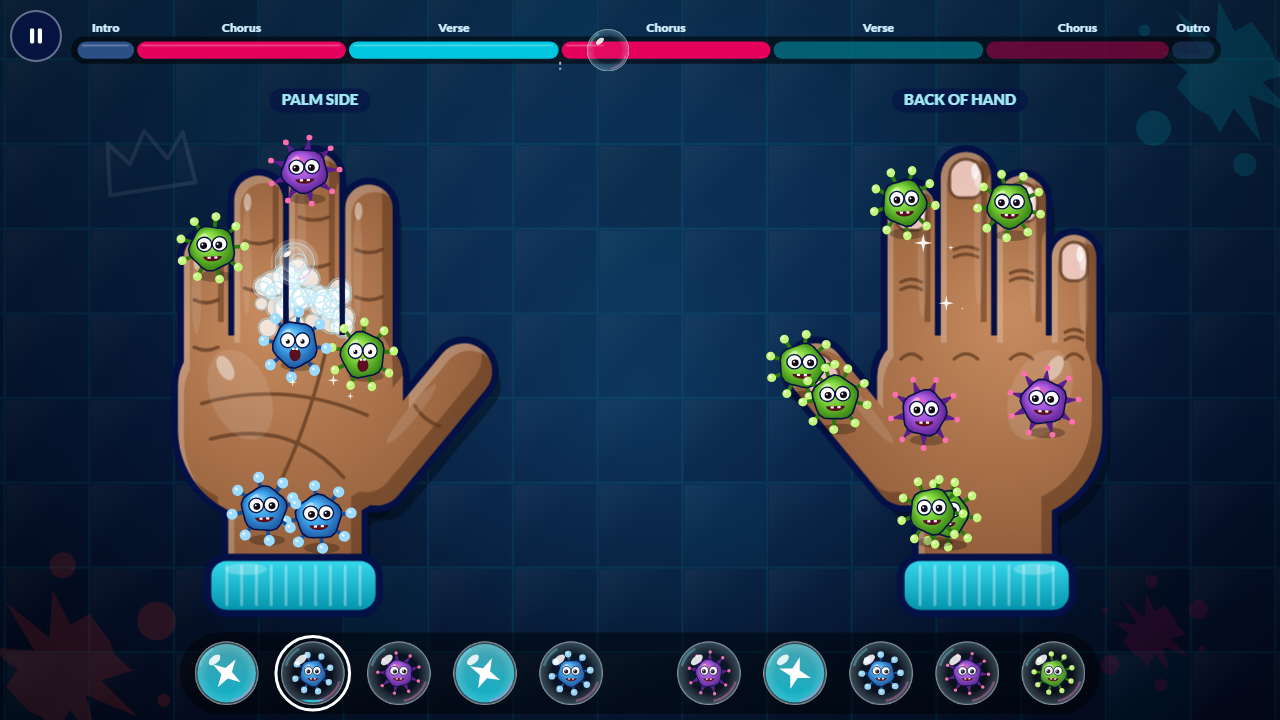
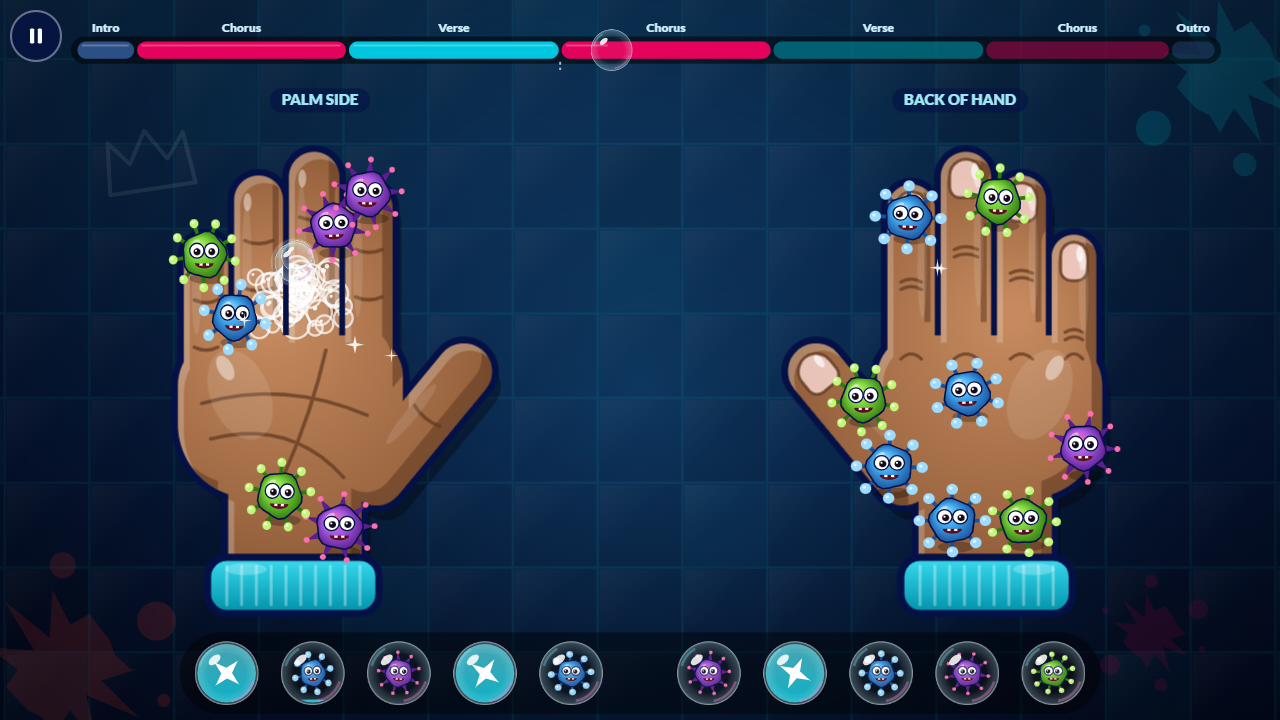
Scrub Squad: see-through suds that fade (hands keep their colour); wrist germs always scrub off
Suds were near-opaque white and never faded, so scrubbed hands looked lighter. Now clear rings that fade in 4 s.
The wrist zone was a sliver under the palm, so wrist germs barely scrubbed; it is bigger, germs are always placed
inside their own zone, and rubbing on a germ always scrubs that germ's zone.

diff --git a/scrub-squad/scrub-squad.js b/scrub-squad/scrub-squad.js
@@ -54,6 +54,7 @@ const GERMS = [
   { name: 'Boo', body: '#3FA6EC', dark: '#1A4F9C', tip: '#9EDCFF', spk: 'nub' },
   { name: 'Prickles', body: '#A85BE2', dark: '#5A1E8E', tip: '#FF6FB0', spk: 'cone' },
 ];
+const FOAM_LIFE = 4; // seconds a soap bubble stays on the hand
 const PRAISE = ['Squeaky!', 'Bye-bye, germs!', 'Sparkly!', 'Scrub-a-dub!', 'Shiny clean!', 'Germ-free zone!'];
 // Fallback timing if song.json has no markers (fractions of the song are scaled to its length)
 const DEFAULT_SECTIONS = [['Intro', 'intro', 0], ['Chorus', 'chorus', 0.052], ['Verse', 'verse', 0.238], ['Chorus', 'chorus', 0.425],
@@ -93,10 +94,10 @@ const thumbTip = () => [THUMB.bx + Math.cos(THUMB.ang) * (THUMB.len - THUMB.w / 
 
 // Drawing shapes
 const SH = { palm: new Path2D(), fingers: FING.map(() => new Path2D()), thumb: new Path2D(), wrist: new Path2D() };
-rrect(SH.palm, 24, 142, 152, 124, [34, 28, 52, 60]);
+rrect(SH.palm, 24, 142, 152, 110, [34, 28, 44, 50]);
 FING.forEach((f, i) => capsule(SH.fingers[i], f.x + f.w / 2, FBASE, -Math.PI / 2, f.w, FBASE - f.t));
 capsule(SH.thumb, THUMB.bx, THUMB.by, THUMB.ang, THUMB.w, THUMB.len);
-rrect(SH.wrist, 58, 246, 90, 66, [0, 0, 12, 12]);
+rrect(SH.wrist, 58, 232, 90, 80, [0, 0, 12, 12]);
 const ALL_SH = [SH.wrist, SH.palm, SH.thumb, ...SH.fingers];
 const UNION = new Path2D();
 ALL_SH.forEach((p) => UNION.addPath(p));
@@ -824,13 +825,13 @@ class ScrubSquad extends HTMLElement {
     for (let n = 0; n < 500; n++) {
       const z = pick(g.subs);
       const x = rnd(0, HW); const y = rnd(0, HH);
-      if (y > 272) continue; // not under the cuff
+      if (y > 280) continue; // not under the cuff
       if (hitZone(x, y) !== z || !inHand(x + 8, y) || !inHand(x - 8, y) || !inHand(x, y + 8) || !inHand(x, y - 8)) continue;
       let ok = true;
       for (const o of S.germs) if (o.h === g.h && o.st !== 'pop' && Math.hypot(o.x - x, o.y - y) < 30) ok = false;
       if (ok || n > 380) return [x, y];
     }
-    return [110, 200];
+    return this.localCenter(g.subs);
   }
   spawn(gi, sneaky) {
     const S = this.S; const g = S.groups[gi];
@@ -921,9 +922,9 @@ class ScrubSquad extends HTMLElement {
         const [sx, sy] = kb ? this.zoneCenter(S.kz) : [p.x, p.y];
         const [lx, ly] = this.toLocal(g.h, sx + (kb ? rnd(-30, 30) : 0), sy + (kb ? rnd(-30, 30) : 0));
         const fo = S.foam[g.h];
-        if (fo.length < 320 || Math.random() < 0.3) {
-          fo.push({ x: lx + rnd(-7, 7), y: ly + rnd(-7, 7), r: rnd(4, 10) * (this.prefs.mode === 'lit' ? 1.2 : 1), b: S.t });
-          if (fo.length > 320) fo.shift();
+        if (Math.random() < 0.6) {
+          fo.push({ x: lx + rnd(-8, 8), y: ly + rnd(-8, 8), r: rnd(4, 10) * (this.prefs.mode === 'lit' ? 1.2 : 1), b: S.t });
+          while (fo.length > 140 || (fo.length && S.t - fo[0].b > FOAM_LIFE)) fo.shift();
         }
         if (Math.random() < (this.chorus ? 0.5 : 0.22)) this.bubble(sx, sy, this.chorus);
       } else {
@@ -1074,19 +1075,18 @@ class ScrubSquad extends HTMLElement {
     if (!fo.length) return;
     const c = this.ctx; const now = this.S.t;
     c.save(); this.handXf(c, h); c.clip(UNION);
-    c.fillStyle = '#ffffff';
+    // suds are see-through bubbles (a ring and a shine, barely any fill) that fade within a few seconds:
+    // the skin under them always shows its own colour
+    c.lineWidth = 1.6; c.strokeStyle = '#ffffff'; c.fillStyle = '#ffffff';
     for (const f of fo) {
       const age = now - f.b;
-      c.globalAlpha = clamp(1 - age / 16, 0.4, 0.92) * Math.min(1, age * 8 + 0.3);
+      const a = clamp(1 - age / FOAM_LIFE, 0, 1) * Math.min(1, age * 8 + 0.3);
+      if (a <= 0) continue;
       const r = f.r * Math.min(1, 0.4 + age * 6);
-      c.beginPath(); c.arc(f.x, f.y, r, 0, TAU); c.fill();
+      c.globalAlpha = a * 0.12; c.beginPath(); c.arc(f.x, f.y, r, 0, TAU); c.fill();
+      c.globalAlpha = a * 0.75; c.stroke();
+      c.globalAlpha = a * 0.9; c.beginPath(); c.arc(f.x - r * 0.35, f.y - r * 0.35, Math.max(0.8, r * 0.18), 0, TAU); c.fill();
     }
-    // a pale blue edge and a shine dot on the newest suds
-    c.globalAlpha = 0.6; c.strokeStyle = '#a6dff2'; c.lineWidth = 1;
-    const from = Math.max(0, fo.length - 90);
-    c.beginPath();
-    for (let i = from; i < fo.length; i++) { const f = fo[i]; c.moveTo(f.x + f.r * 0.9, f.y); c.arc(f.x, f.y, f.r * 0.9, 0, TAU); }
-    c.stroke();
     c.restore();
   }
   drawFocus() {
@@ -1277,6 +1277,18 @@ class ScrubSquad extends HTMLElement {
   locate(x, y) {
     const p = this.S.ptr;
     p.h = -1; p.z = -1; p.g = -1;
+    // a finger on a germ scrubs that germ's zone, even where the germ overlaps the zone next door
+    if (this.S.phase === 'play') {
+      let best = null; let bd = Infinity;
+      for (const o of this.S.germs) {
+        if (o.st === 'pop' || o.g < 0) continue;
+        const t = this.L.hands[o.h];
+        const [sx, sy] = this.toScreen(o.h, o.x, o.y);
+        const d = Math.hypot(sx - x, sy - y);
+        if (d < MODES[this.prefs.mode].germR * t.s * 1.35 && d < bd) { bd = d; best = o; }
+      }
+      if (best) { p.h = best.h; p.g = best.g; p.z = this.S.groups[best.g].subs[0]; return; }
+    }
     for (let h = 0; h < 2; h++) {
       const [lx, ly] = this.toLocal(h, x, y);
       const z = hitZone(lx, ly);
